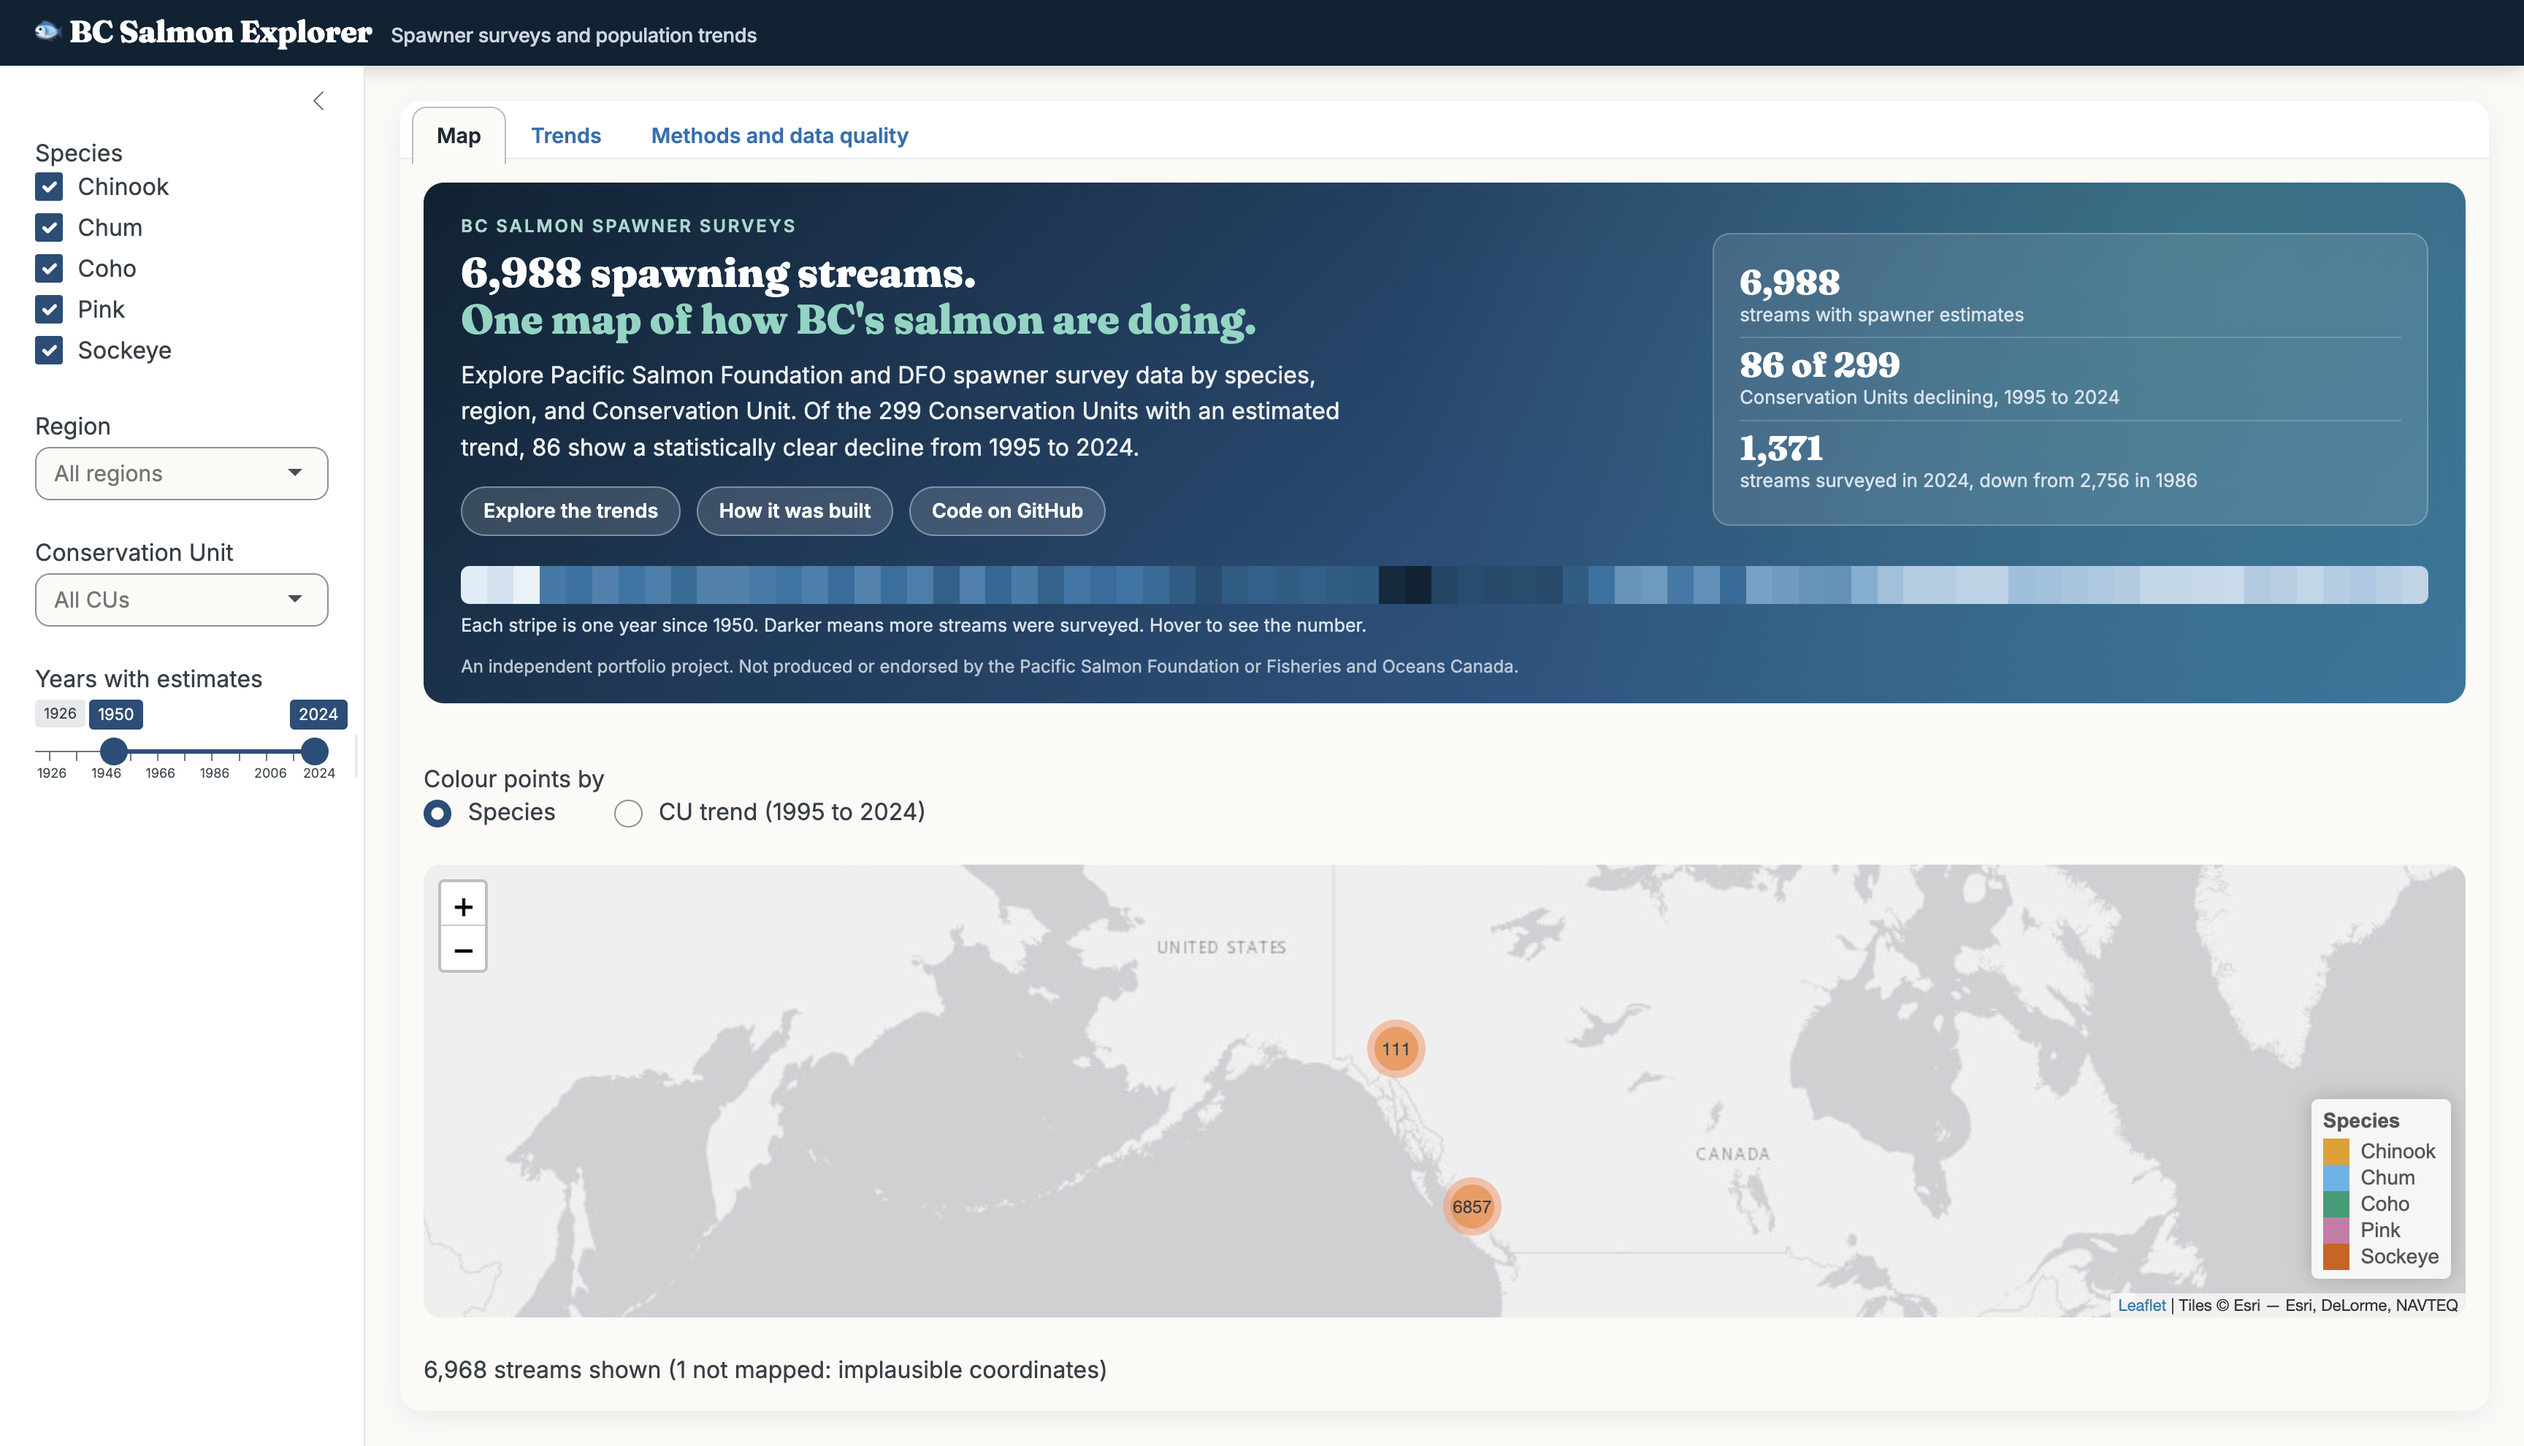
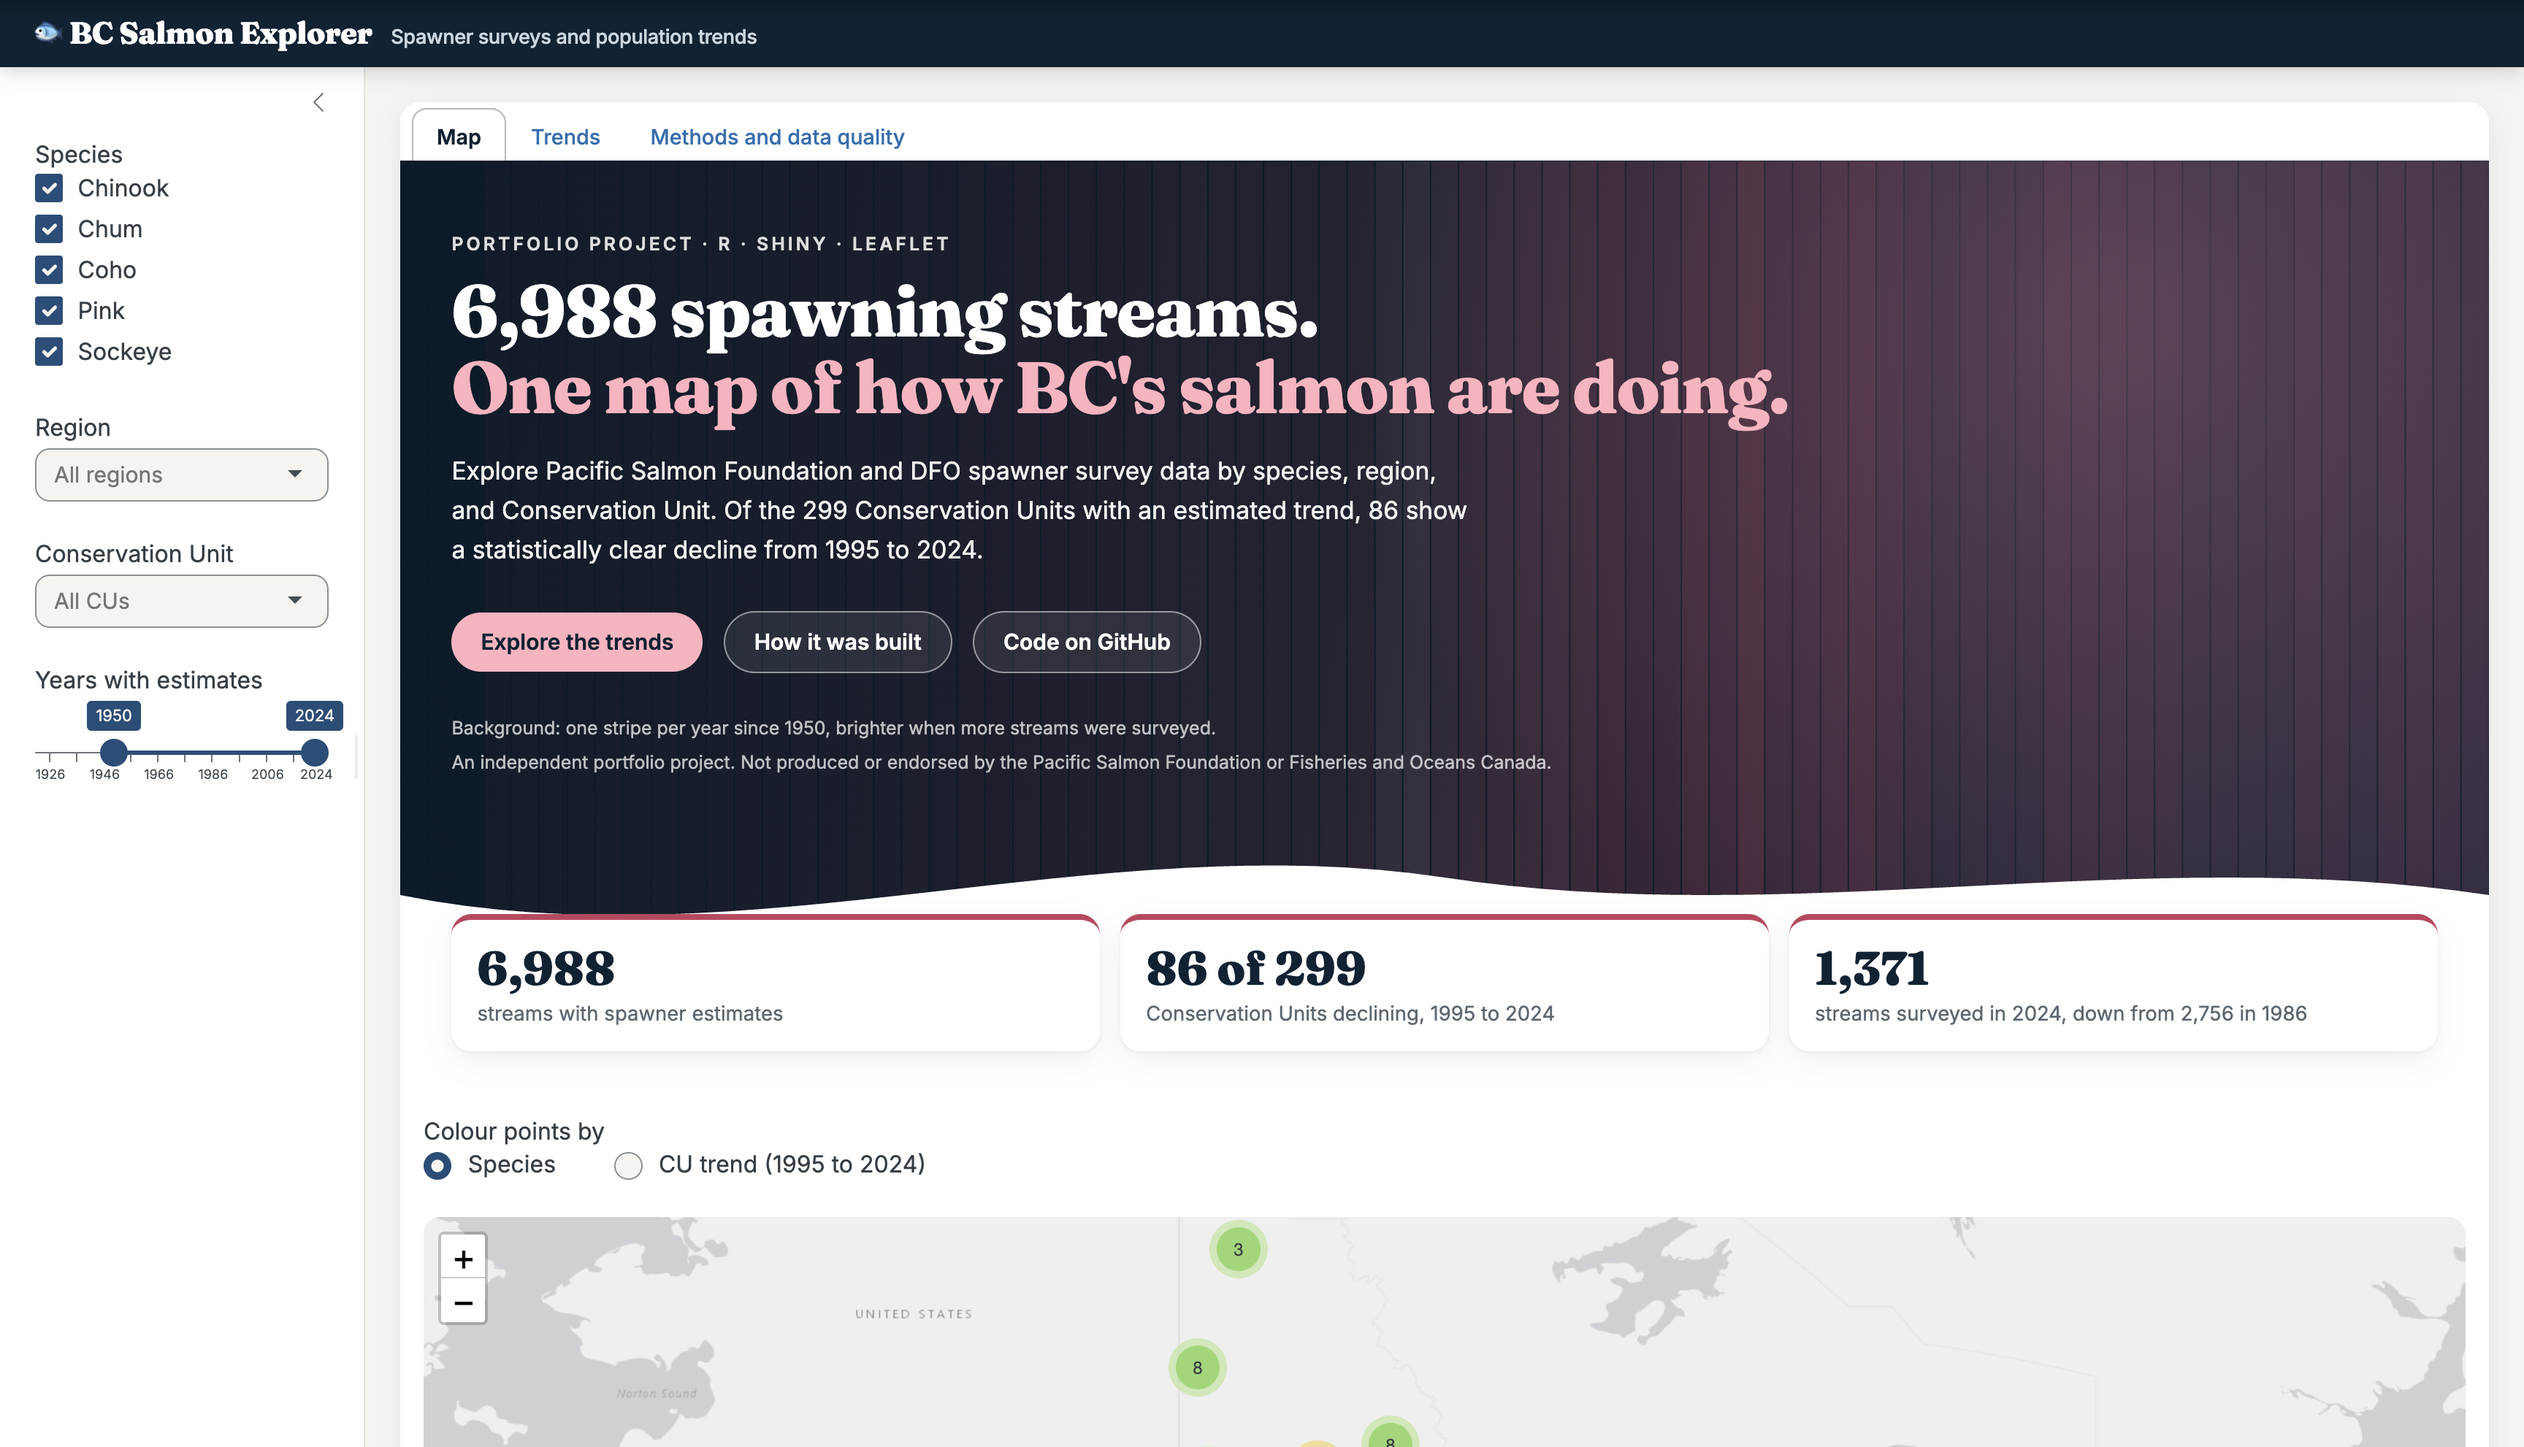
README: shared template, new screenshot

diff --git a/README.md b/README.md
@@ -2,15 +2,17 @@
 
 An interactive R Shiny app for exploring spawner abundance and recent trends for Pacific salmon in British Columbia and the Yukon, using the Pacific Salmon Foundation's cleaned NuSEDS spawner survey data.
 
-Companion project: [BC lightstation sea temperatures](https://emmabranch.github.io/bc-lightstation-qc/), quality-controlled ocean temperature data for the same coast.
+**Live app:** https://emmabranch.shinyapps.io/bc-salmon-explorer/ · **More projects:** [github.com/emmabranch](https://github.com/emmabranch)
 
-**Live app:** https://emmabranch.shinyapps.io/bc-salmon-explorer/
+Companion project: [BC lightstation sea temperatures](https://emmabranch.github.io/bc-lightstation-qc/), quality-controlled ocean temperature data for the same coast.
 
 ![Screenshot of the BC Salmon Explorer map](docs/screenshot.png)
 
+> This is an independent portfolio project. It is not produced or endorsed by the Pacific Salmon Foundation or Fisheries and Oceans Canada.
+
 ## What it does
 
-- **A data banner** with headline figures and a stripe ribbon of monitoring effort since 1950 (one stripe per year), showing how the number of surveyed streams has changed
+- **A headline banner** with key figures, and background stripes showing monitoring effort since 1950 (one stripe per year), so you can see how the number of surveyed streams has changed
 - **Map** of about 7,000 survey streams, coloured by species or by the estimated recent trend of their Conservation Unit (CU)
 - **Filters** for species, region, Conservation Unit, and year range
 - **Trends tab:**
@@ -19,15 +21,13 @@ Companion project: [BC lightstation sea temperatures](https://emmabranch.github.
   - a table of CU trend estimates, with low-data trends flagged as less reliable
 - **Methods and data quality tab** explaining the data, cleaning steps, model, and limitations, with charts of survey coverage and survey quality over time
 
-## Data
+## Data and licences
 
 - Carturan, B. & Peacock, S. (2026). *Cleaned spawner survey data* (v4). Pacific Salmon Foundation. Zenodo. https://doi.org/10.5281/zenodo.19959144. Licensed under CC BY 4.0.
 - Derived from Fisheries and Oceans Canada. *NuSEDS - New Salmon Escapement Database System*. Open Government Portal. https://open.canada.ca/data/en/dataset/c48669a3-045b-400d-b730-48aafe8c5ee6. Contains information licensed under the Open Government Licence - Canada.
 - Cleaning methods: Pacific Salmon Foundation, [Pacific Salmon Explorer Technical Report, Appendix 2](https://salmonexplorer.ca/methods/appendix-2.html).
 
 The raw file (about 300 MB) is not stored in this repository. See [`data-raw/README.md`](data-raw/README.md) for download instructions. The app uses two small processed files in `data/` (under 1 MB in total), shared under the same CC BY 4.0 terms with attribution as above.
-
-This is an independent portfolio project. It is not produced or endorsed by the Pacific Salmon Foundation or Fisheries and Oceans Canada.
 
 ## Methods in brief
 
@@ -58,30 +58,13 @@ Run them from the project root with:
 testthat::test_dir("tests/testthat")
 ```
 
-## Limitations
-
-- Trend labels describe change in survey estimates. They are **not biological status assessments**.
-- The app's models assume independent errors. The sensitivity check above found the mixed models largely robust to this, but intervals for CUs with 1 or 2 streams are likely too narrow.
-- Survey coverage varies over time, and monitoring effort has declined in recent decades.
-- Survey quality is unknown for most estimates, especially before 1995.
-- `MAX_ESTIMATE` can reflect total returns as well as spawners.
-
-Full details are in the app's Methods and data quality tab.
-
-## Next steps
-
-Code review suggested an AR(1) sensitivity check and unit tests for `fit_trend()`; both are now done (see above). Possible further work:
-
-- Extend the autocorrelation check to CUs with 1 or 2 streams, for example with `nlme::gls()` and an AR(1) correlation structure.
-- Show the AR(1) results in the app, for example as a toggle on the Trends tab.
-- Run the tests automatically on every push with GitHub Actions.
-
 ## Repository structure
 
 ```
 bc-salmon-explorer/
 ├── app.R                 # Shiny app (UI and server)
 ├── R/
+│   ├── app_theme.R       # Look and feel: colours, fonts, banner, and footer
 │   ├── fit_trend.R       # Trend model for one CU (used by the app and scripts)
 │   └── methods_tab.R     # Methods and data quality tab content
 ├── scripts/
@@ -101,7 +84,7 @@ bc-salmon-explorer/
 └── renv.lock             # Package versions (renv)
 ```
 
-## Reproducing the analysis
+## How to reproduce
 
 1. Clone this repository and open `bc-salmon-explorer.Rproj` in RStudio.
 2. Run `renv::restore()` to install the package versions used.
@@ -112,6 +95,26 @@ bc-salmon-explorer/
 
 Built with R 4.6, shiny, bslib, leaflet, dplyr, ggplot2, plotly, lme4, glmmTMB, and testthat. Deployed with rsconnect to shinyapps.io. Developed in RStudio with Git for version control and GitHub Copilot for code suggestions.
 
-## Author
+## Limitations
 
-Emma Branch, PhD candidate in epidemiology, University of British Columbia.
+- Trend labels describe change in survey estimates. They are **not biological status assessments**.
+- The app's models assume independent errors. The sensitivity check above found the mixed models largely robust to this, but intervals for CUs with 1 or 2 streams are likely too narrow.
+- Survey coverage varies over time, and monitoring effort has declined in recent decades.
+- Survey quality is unknown for most estimates, especially before 1995.
+- `MAX_ESTIMATE` can reflect total returns as well as spawners.
+
+Full details are in the app's Methods and data quality tab.
+
+## Next steps
+
+Code review suggested an AR(1) sensitivity check and unit tests for `fit_trend()`; both are now done (see above). Possible further work:
+
+- Extend the autocorrelation check to CUs with 1 or 2 streams, for example with `nlme::gls()` and an AR(1) correlation structure.
+- Show the AR(1) results in the app, for example as a toggle on the Trends tab.
+- Run the tests automatically on every push with GitHub Actions.
+
+## About me
+
+I'm Emma Branch, an epidemiologist and data analyst in British Columbia, and a PhD candidate in Population and Public Health at the University of British Columbia. I've spent about 10 years working with health research data, including registry analytics, REDCap database design, data governance, and performance measurement. I mostly work in R, SAS, and SQL, and build reports and tools with Quarto, Shiny, leaflet, and Power BI. Lately I've been applying the same habits to environmental and ocean data, mostly because I like maps and fish.
+
+[More projects](https://github.com/emmabranch) · [LinkedIn](https://www.linkedin.com/in/embranch/) · emma.branch@gmail.com
